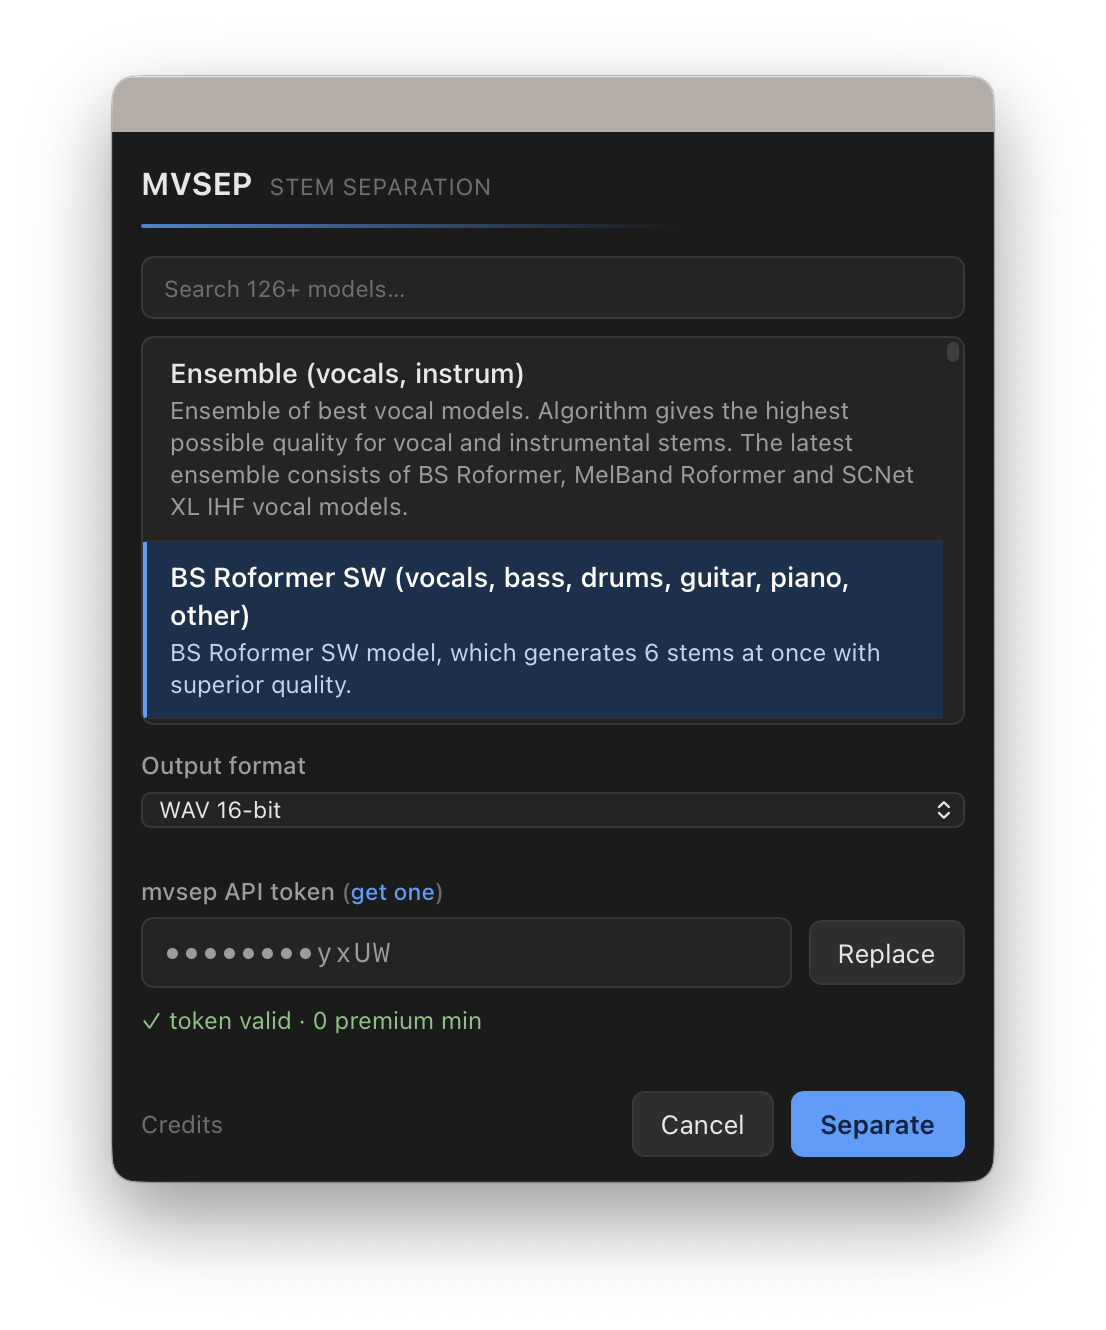
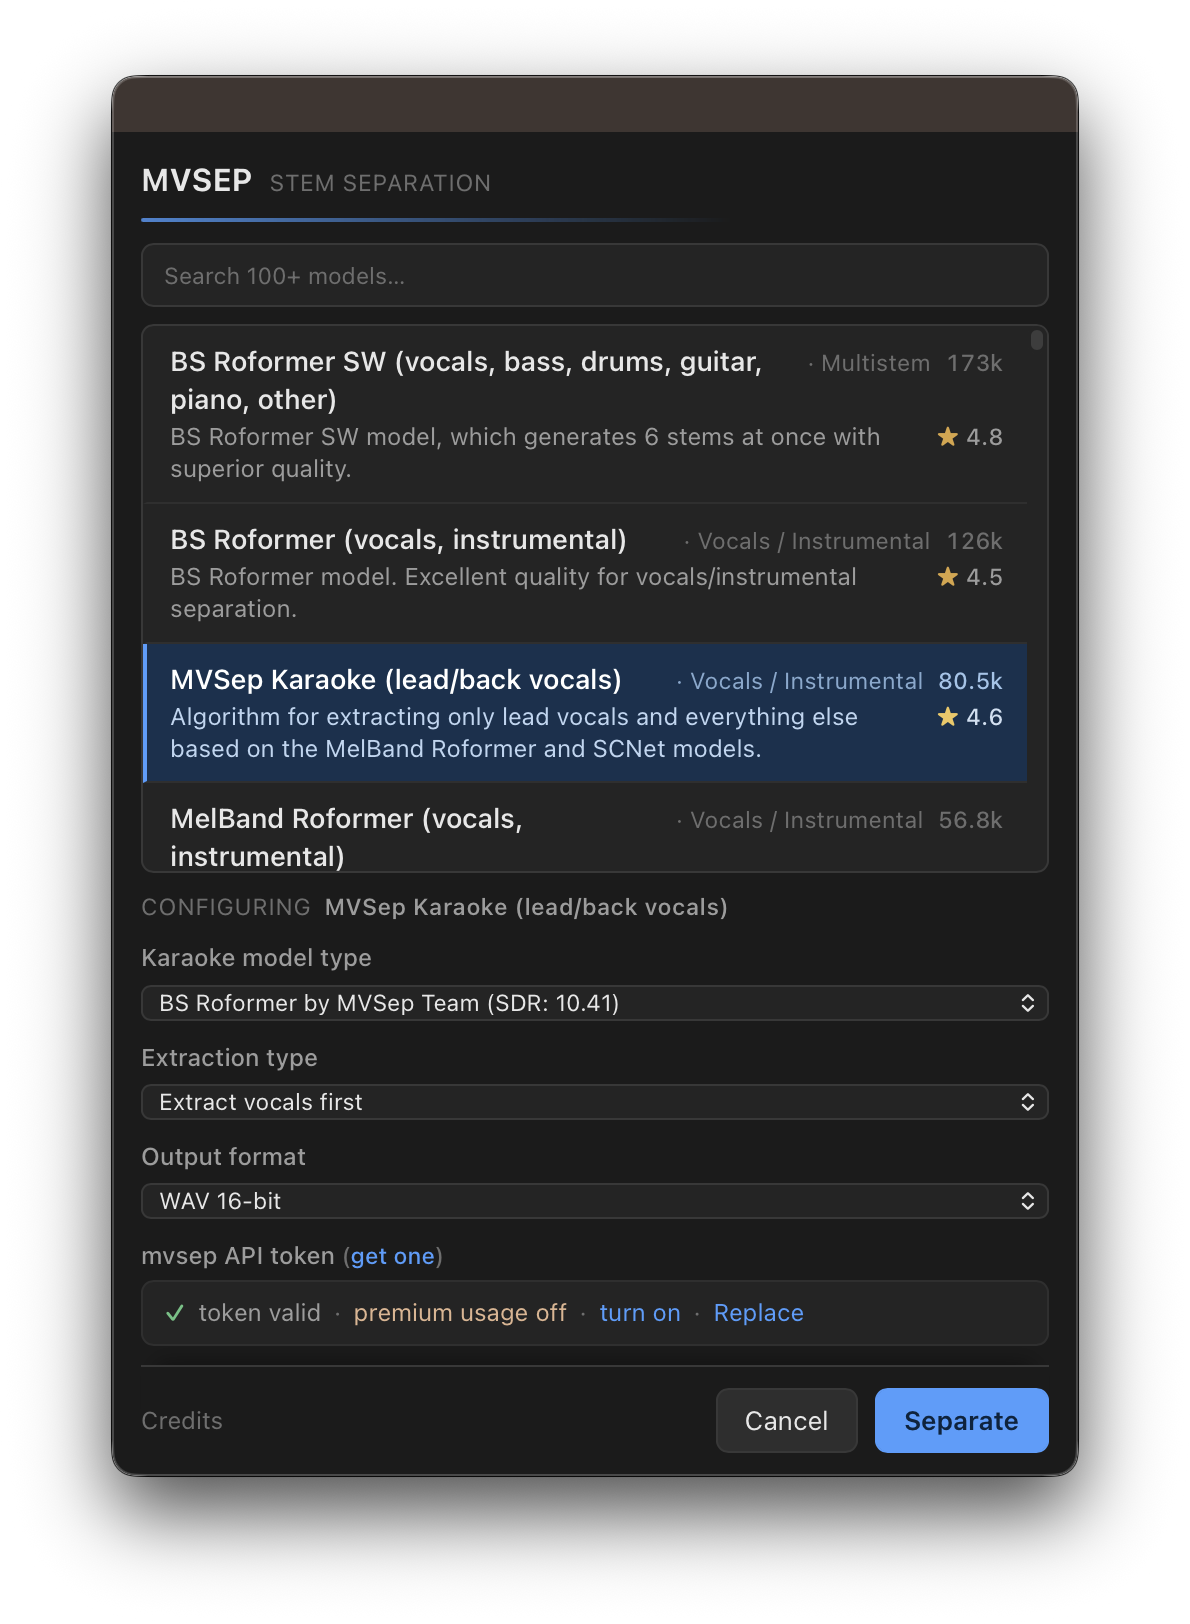
docs: refresh README + assets for 100+ models, MVSEP branding, Suite requirement
- Model count is now "100+" (we curate the catalog) instead of "126+".
- MVSEP is written all-caps throughout the copy; only URL hrefs stay lowercase.
- State the real requirement: Ableton Live Suite 12.4.5+ (Extensions are Suite-only),
  in both the badge and Requirements; add release/license/Ableton/stars badges.
- Reorder for readers: Requirements before Install, dev sections clustered at the
  bottom, expanded Features (smart picker, premium-aware), trimmed Install/Usage overlap.
- Drop the "Behavior & limitations" section; limitations are tracked as issues (#2-#5)
  and the one behavior note folded into How it works.
- Regenerate the social card with the new tagline; replace the picker screenshot with
  a fresh capture of the current UI.

diff --git a/scripts/social-card.py b/scripts/social-card.py
@@ -10,7 +10,7 @@ the GitHub social-preview spec, matching the ableton-sheet-music-extension card.
 
 Usage:
   uv run scripts/social-card.py --title "AbleVSEP" \
-      --tagline "Separate any audio clip into stems with any of mvsep.com's 126+ models, right inside Live." \
+      --tagline "Separate any audio clip into stems with any of MVSEP's 100+ models, right inside Live." \
       --hero docs/social-preview-hero.png --out docs/social-preview.png
 
 Rendering uses the cached Playwright chrome-headless-shell at 2x, then downscales

diff --git a/README.md b/README.md
@@ -1,30 +1,50 @@
 # AbleVSEP
 
 [![CI](https://github.com/madisonrickert/ablevsep/actions/workflows/ci.yml/badge.svg)](https://github.com/madisonrickert/ablevsep/actions/workflows/ci.yml)
+[![Latest release](https://img.shields.io/github/v/release/madisonrickert/ablevsep?label=release)](https://github.com/madisonrickert/ablevsep/releases/latest)
+[![License: MIT](https://img.shields.io/github/license/madisonrickert/ablevsep)](LICENSE)
+[![Ableton Live Suite 12.4.5+](https://img.shields.io/badge/Ableton%20Live%20Suite-12.4.5%2B-black)](https://www.ableton.com/en/live/extensions)
+[![Stars](https://img.shields.io/github/stars/madisonrickert/ablevsep?style=flat)](https://github.com/madisonrickert/ablevsep/stargazers)
 
 Right-click an audio clip in Ableton Live → **Separate Stems with MVSEP** → pick any
-[mvsep.com](https://mvsep.com) model → the stems come back as new, group-styled tracks.
-It mirrors Live's built-in Stem Separation workflow, but exposes mvsep's full model
-catalog (126+ models) instead of one fixed algorithm.
+[MVSEP](https://mvsep.com) model → the stems come back as new, group-styled tracks.
+It mirrors Live's built-in Stem Separation workflow, but exposes MVSEP's model
+catalog (100+ models) instead of one fixed algorithm.
 
-![AbleVSEP: separate any audio clip into stems with any of mvsep.com's 126+ models, right inside Ableton Live](docs/social-preview.png)
+![AbleVSEP: separate any audio clip into stems with any of MVSEP's 100+ models, right inside Ableton Live](docs/social-preview.png)
 
 ## Features
 
 - Separate an **Arrangement audio clip** or a **Session clip slot** into stems.
-- Choose **any** mvsep model from a searchable picker, with that model's variant options.
+- **Smart model picker:** search 100+ MVSEP models by name or category, sorted by
+  popularity, with community ★ ratings and each model's variant options.
+- **Premium-aware:** live credit-cost estimates, gating for premium-only models and output
+  formats, an in-app premium-usage toggle, and pre-upload checks against your plan's limits.
 - Stems land as new adjacent tracks named `<clip> - <stem>`, each in its own track color
   for easy visual separation, with the original muted (press ⌘G to fold them into a group).
 - Cancellable progress; your API token and last-used model are remembered.
 
 ## How it works
 
-The extension renders/reads the clip's audio, uploads it to mvsep's separation API with
-your chosen model, polls until the job finishes, downloads the stems, and places them back
-into your set. All mvsep-facing logic lives in pure, unit-tested modules; the Ableton SDK
-is only touched at the orchestration edge.
+When you run a separation, AbleVSEP captures the clip's audio, sends it to MVSEP for
+separation, and brings the stems back into your set. For an **Arrangement** clip it renders
+exactly what plays (pre-FX, trimmed, and warped); for a **Session** clip it reads the source
+file directly. The audio is uploaded with the model you chose, and AbleVSEP polls the job
+until it finishes, showing progress you can cancel at any point. When the stems are ready, it
+downloads them and places each on its own new track beside the original.
+
+All MVSEP-facing logic lives in pure, unit-tested modules; the Ableton SDK is touched only at
+a thin orchestration edge.
 
 ![A clip being separated into stems, which arrive as new color-coded tracks in the arrangement (2× speed)](docs/demo.gif)
+
+## Requirements
+
+To install and use AbleVSEP you need only **Ableton Live Suite 12.4.5+ with Extensions**
+(Extensions are a Suite-only feature, currently in the Live 12 beta; tested on 12.4.5b3) and
+an **MVSEP API token** ([get one](https://mvsep.com/full_api)). The `.ablx` is self-contained
+and runs inside Live's Extension Host, so you do **not** need Node.js or the SDK installed to
+use it. Separations run on your MVSEP account, and premium models spend your MVSEP credits.
 
 ## Install
 
@@ -35,47 +55,31 @@ one, see [Build from source](#build-from-source)), then:
 1. In Ableton Live, open **Preferences → Extensions** (with Developer Mode **off**, so Live
    manages the extension).
 2. Drag the `.ablx` onto that page.
-3. Right-click an audio clip → **Separate Stems with MVSEP**.
 
 ## Usage
 
 1. Right-click an **audio clip** (Arrangement) or a **Session clip slot** → **Separate Stems with MVSEP**.
-2. Search/select a model, set its options + output format, paste your mvsep API token
+2. Search/select a model, set its options + output format, paste your MVSEP API token
    (optionally "remember as default"), click **Separate**.
 3. Stems arrive as new tracks named `<clip> - <stem>`, each in its own track color, with
    the original muted.
 4. **To group them:** select the new tracks and press **⌘G** (Live's extension API can't
    create a group track programmatically).
 
-![The model picker: search 126+ mvsep models, pick variant options and output format, and paste your API token](docs/screenshot-picker.png)
+![The model picker: search 100+ MVSEP models, pick variant options and output format, and paste your API token](docs/screenshot-picker.png)
 
-## Your mvsep token & privacy
+## Your MVSEP token & privacy
 
-AbleVSEP talks only to mvsep.com. Your API token is stored locally in the extension's
-private storage folder (managed by Live's Extension Host) and is sent only to mvsep.com's
+AbleVSEP talks only to MVSEP. Your API token is stored locally in the extension's
+private storage folder (managed by Live's Extension Host) and is sent only to MVSEP's
 API over HTTPS to run separations. AbleVSEP has no analytics or telemetry and makes no
 other network calls. To replace a saved token, click **Replace** in the picker; to revoke
-it entirely, regenerate it on [mvsep.com](https://mvsep.com/full_api).
-
-## Requirements
-
-**To install and use**, you need only Ableton Live:
-
-- **Ableton Live 12 with Extensions enabled** (the Extensions feature ships in the Live 12
-  beta). The `.ablx` is self-contained and runs inside Live's Extension Host, so you do
-  **not** need Node.js or the SDK installed to use it.
-- An **mvsep API token**, see <https://mvsep.com/full_api>.
-
-**To build from source** (development only):
-
-- **Node.js ≥ 24**.
-- The **Ableton Extensions SDK (beta)**, distributed by Ableton and **not** included in
-  this repository (see below).
+it entirely, regenerate it on [MVSEP](https://mvsep.com/full_api).
 
 ## Build from source
 
-This project depends on the Ableton Extensions SDK, which is not published to npm and is
-not bundled here. Obtain it from Ableton, then:
+Building from source needs **Node.js ≥ 24** and the **Ableton Extensions SDK (beta)**, which
+is distributed by Ableton, not published to npm, and **not** bundled here. Obtain the SDK, then:
 
 1. Download and unpack the Extensions SDK (e.g. `extensions-sdk-1.0.0-beta.0`).
 2. Tell the project where it is and install:
@@ -122,29 +126,16 @@ npm test           # unit tests (Vitest) for the SDK-independent modules
 npm run typecheck  # type-check the extension
 ```
 
-## Behavior & limitations
-
-- **Arrangement clips** render exactly what the clip plays (pre-FX, trimmed, warped) and
-  place stems 1:1 at the original position. Faithful to Live's built-in stem separation.
-- **Session clips** separate the clip's **source file** (no arrangement render is
-  available). Unwarped clips get their region mirrored onto the stems; **warped Session
-  clips are best-effort**: the placed region may not match what the clip played (surfaced
-  in-app).
-- Stems are placed **unwarped** (the Live API can't author warp markers), so they won't
-  re-stretch if you change the project tempo later.
-- No true Live **group** track (the SDK has no group-creation API), hence the ⌘G hint.
-- Non-premium mvsep accounts allow **one job at a time**; v1 separates one clip per run.
-
 ## License
 
 MIT. See [LICENSE](LICENSE).
 
 ---
 
-> **Disclaimer.** AbleVSEP is an independent, unofficial client of [mvsep.com](https://mvsep.com)'s
+> **Disclaimer.** AbleVSEP is an independent, unofficial client of [MVSEP](https://mvsep.com)'s
 > public API, not an Ableton or MVSEP product. "Ableton" and "MVSEP" are trademarks of their
-> respective owners. You bring your own mvsep account and API token, and separations consume your
-> mvsep credits.
+> respective owners. You bring your own MVSEP account and API token, and separations consume your
+> MVSEP credits.
 
 > **Disclosure.** MVSEP's creator provided complimentary premium credits to support AbleVSEP's
 > development, with no conditions attached. The project is built and maintained independently.
